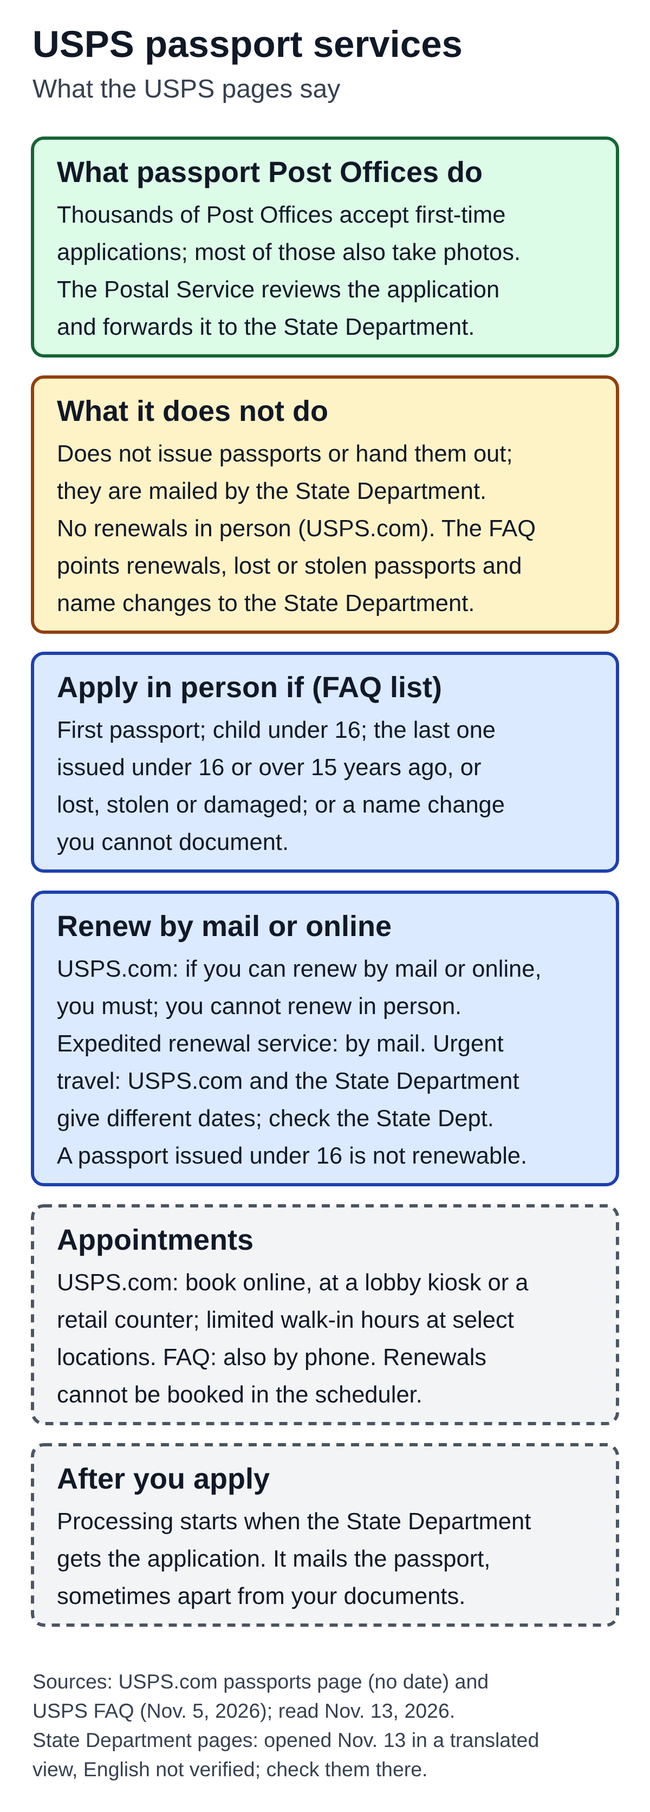
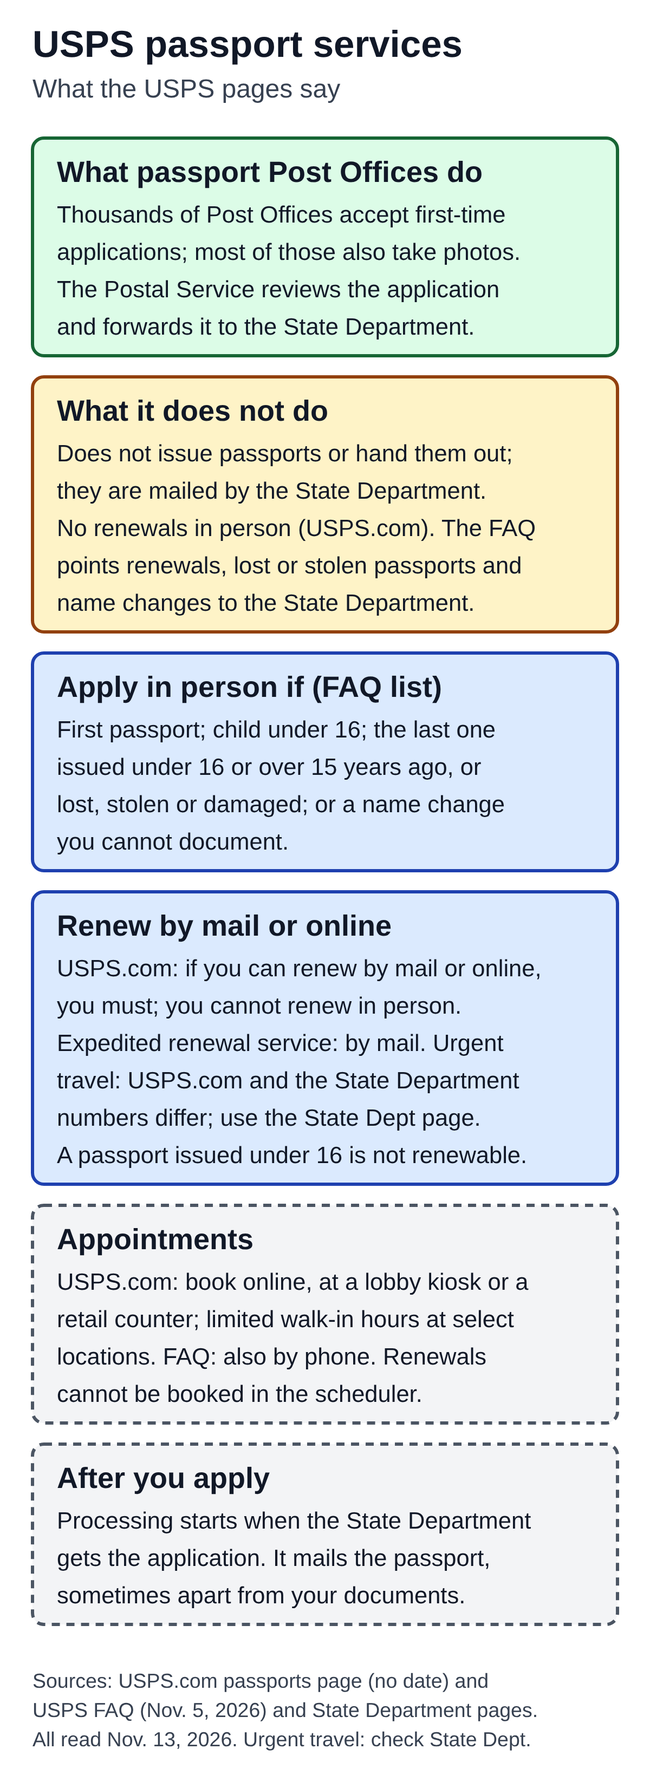
Passport post: rewrite urgent travel from English State Department text (Gate 2 FIX)
Replace the unexplained State Department numbers with the four options and what
each number measures (14 days; 2-3 weeks with 14/28-day appointment point; 6
weeks; mailing up to 2 weeks), note appointment availability, place USPS.com's
10 weeks/72 hours beside a "do not match" note, and link the State Department
page. Align scope, Sources, diagram Renew card/footer and alt; QA separates the
reviewer's search-tool check from Claude's English read. Not published.

Claude-Session: https://claude.ai/code/session_01BXtGEA3Qzg6u2ejRb8jbFU

Changed region(s): [[0.0308, 0.031, 0.9558, 0.9918], [0.8325, 0.7748, 0.8633, 0.8058], [0.7708, 0.7748, 0.8017, 0.8058]]

diff --git a/content/ready/usps-passport-services-what-the-post-office-does.md b/content/ready/usps-passport-services-what-the-post-office-does.md
@@ -8,16 +8,16 @@ status: ready
 date: 2026-11-13
 internal_link_candidates: real-id-to-fly-what-tsa-accepts (linked once in the body; decide at Gate 2)
 image: assets/optimized/usps-passport-services-what-the-post-office-does.png
-image_alt: "Diagram of what the USPS pages say about passport services. What passport Post Offices do: thousands of Post Offices accept first-time passport applications and most of those also take photos; the Postal Service reviews the application and forwards it to the State Department. What it does not do: does not issue passports or hand them out, because the State Department mails them; no renewals in person according to USPS.com; the FAQ points renewals, lost or stolen passports and name changes to the State Department. Apply in person if (FAQ list): first passport; child under 16; the last one issued under 16 or over 15 years ago, or lost, stolen or damaged; or a name change you cannot document. Renew by mail or online: USPS.com says if you can renew by mail or online, you must, and you cannot renew in person; expedited renewal service is by mail; for urgent travel USPS.com and the State Department pages give different dates, so check the State Department page; a passport issued under 16 is not renewable. Appointments: USPS.com says book online, at a lobby kiosk or a retail counter, with limited walk-in hours at select locations; the FAQ adds booking by phone; renewals cannot be booked in the scheduler. After you apply: processing starts when the State Department gets the application; it mails the passport, sometimes apart from your documents. Sources: USPS.com passports page (no date) and USPS FAQ (Nov. 5, 2026), read Nov. 13, 2026; State Department pages opened Nov. 13 in a translated view with the English wording not verified, so check them there."
+image_alt: "Diagram of what the USPS pages say about passport services. What passport Post Offices do: thousands of Post Offices accept first-time passport applications and most of those also take photos; the Postal Service reviews the application and forwards it to the State Department. What it does not do: does not issue passports or hand them out, because the State Department mails them; no renewals in person according to USPS.com; the FAQ points renewals, lost or stolen passports and name changes to the State Department. Apply in person if (FAQ list): first passport; child under 16; the last one issued under 16 or over 15 years ago, or lost, stolen or damaged; or a name change you cannot document. Renew by mail or online: USPS.com says if you can renew by mail or online, you must, and you cannot renew in person; expedited renewal service is by mail; for urgent travel the USPS.com and State Department numbers differ, so use the State Department page; a passport issued under 16 is not renewable. Appointments: USPS.com says book online, at a lobby kiosk or a retail counter, with limited walk-in hours at select locations; the FAQ adds booking by phone; renewals cannot be booked in the scheduler. After you apply: processing starts when the State Department gets the application; it mails the passport, sometimes apart from your documents. Sources: USPS.com passports page (no date), USPS FAQ (Nov. 5, 2026) and State Department pages, all read Nov. 13, 2026; for urgent travel, check the State Department page."
 ---
 
 # USPS Passport Services: What the Post Office Does and Does Not Handle
 
 **USPS says thousands of Post Offices accept first-time passport applications and most of those can also take passport photos, but "The Postal Service does NOT issue or create passports," and USPS.com says that if you are eligible to renew by mail or online, you "cannot renew in person."** The passport itself comes from the U.S. Department of State.
 
-This article covers two USPS pages: the USPS.com page "Passports" (the page titled "Passport Appointments, Renewals, & Photo Services"; no update date shown) and the USPS FAQ "U.S. Passports - The Basics" (Article 000007488, dated November 5, 2026). The wording is as of November 13, 2026. The passport rules belong to the State Department. On Nov. 13, 2026 its pages on [applying in person as an adult](https://travel.state.gov/en/passports/apply/adults.html), [renewing by mail](https://travel.state.gov/en/passports/renew-replace/mail.html) and [getting a passport faster](https://travel.state.gov/en/passports/apply/get-fast.html) were opened in a web browser, but the browser showed their text in an automatic translation and the English wording was not checked. For that reason everything below is what USPS says, not what the State Department says; this article does not quote the State Department pages or state what their sentences mean, apart from the numbers noted in the urgent travel section, and it sends you to them for the current rules and exceptions. The pages list fees; this article gives no prices. It does not cover expedited processing in detail, passport cards beyond one line, lost or stolen passports, international travel rules, or processing times.
+This article covers two USPS pages: the USPS.com page "Passports" (the page titled "Passport Appointments, Renewals, & Photo Services"; no update date shown) and the USPS FAQ "U.S. Passports - The Basics" (Article 000007488, dated November 5, 2026). The wording is as of November 13, 2026. The passport rules belong to the State Department. On Nov. 13, 2026 its pages on [applying in person as an adult](https://travel.state.gov/en/passports/apply/adults.html), [renewing by mail](https://travel.state.gov/en/passports/renew-replace/mail.html) and [getting a passport faster](https://travel.state.gov/en/passports/apply/get-fast.html) were read in English. They are used here for the urgent travel section, for the in-person list and for the under-16 renewal rule; everything else below is what USPS says, not what the State Department says, and this article sends you to the State Department pages for the current rules and exceptions. The pages list fees; this article gives no prices. It does not cover expedited processing in detail, passport cards beyond one line, lost or stolen passports, international travel rules, or processing times.
 
-![Diagram of what the USPS pages say about passport services. What passport Post Offices do: thousands of Post Offices accept first-time passport applications and most of those also take photos; the Postal Service reviews the application and forwards it to the State Department. What it does not do: does not issue passports or hand them out, because the State Department mails them; no renewals in person according to USPS.com; the FAQ points renewals, lost or stolen passports and name changes to the State Department. Apply in person if (FAQ list): first passport; child under 16; the last one issued under 16 or over 15 years ago, or lost, stolen or damaged; or a name change you cannot document. Renew by mail or online: USPS.com says if you can renew by mail or online, you must, and you cannot renew in person; expedited renewal service is by mail; for urgent travel USPS.com and the State Department pages give different dates, so check the State Department page; a passport issued under 16 is not renewable. Appointments: USPS.com says book online, at a lobby kiosk or a retail counter, with limited walk-in hours at select locations; the FAQ adds booking by phone; renewals cannot be booked in the scheduler. After you apply: processing starts when the State Department gets the application; it mails the passport, sometimes apart from your documents. Sources: USPS.com passports page (no date) and USPS FAQ (Nov. 5, 2026), read Nov. 13, 2026; State Department pages opened Nov. 13 in a translated view with the English wording not verified, so check them there.](assets/optimized/usps-passport-services-what-the-post-office-does.png)
+![Diagram of what the USPS pages say about passport services. What passport Post Offices do: thousands of Post Offices accept first-time passport applications and most of those also take photos; the Postal Service reviews the application and forwards it to the State Department. What it does not do: does not issue passports or hand them out, because the State Department mails them; no renewals in person according to USPS.com; the FAQ points renewals, lost or stolen passports and name changes to the State Department. Apply in person if (FAQ list): first passport; child under 16; the last one issued under 16 or over 15 years ago, or lost, stolen or damaged; or a name change you cannot document. Renew by mail or online: USPS.com says if you can renew by mail or online, you must, and you cannot renew in person; expedited renewal service is by mail; for urgent travel the USPS.com and State Department numbers differ, so use the State Department page; a passport issued under 16 is not renewable. Appointments: USPS.com says book online, at a lobby kiosk or a retail counter, with limited walk-in hours at select locations; the FAQ adds booking by phone; renewals cannot be booked in the scheduler. After you apply: processing starts when the State Department gets the application; it mails the passport, sometimes apart from your documents. Sources: USPS.com passports page (no date), USPS FAQ (Nov. 5, 2026) and State Department pages, all read Nov. 13, 2026; for urgent travel, check the State Department page.](assets/optimized/usps-passport-services-what-the-post-office-does.png)
 
 ## What the Post Office does, and what it does not
 
@@ -29,7 +29,7 @@ USPS.com opens with a shorter version: "Thousands of Post Offices™ accept firs
 
 ## Who applies in person
 
-The FAQ lists when you must apply in person using Form DS-11. It is enough if at least one of these is true: you are applying for your first U.S. passport; you are under age 16; your previous passport was issued when you were under 16; your previous passport was lost, stolen or damaged; your previous passport was issued more than 15 years ago; or your name has changed since the passport was issued and you cannot legally document the name change. It adds that if none of those apply, "you may be eligible to Renew by Mail using Form DS-82." The State Department's page on [applying in person as an adult](https://travel.state.gov/en/passports/apply/adults.html) is the place to check the full eligibility rules and exceptions; this article did not verify its English wording.
+The FAQ lists when you must apply in person using Form DS-11. It is enough if at least one of these is true: you are applying for your first U.S. passport; you are under age 16; your previous passport was issued when you were under 16; your previous passport was lost, stolen or damaged; your previous passport was issued more than 15 years ago; or your name has changed since the passport was issued and you cannot legally document the name change. It adds that if none of those apply, "you may be eligible to Renew by Mail using Form DS-82." The State Department's page on [applying in person as an adult](https://travel.state.gov/en/passports/apply/adults.html) is the place to check the full eligibility rules and exceptions. Its list covers first-time adult applicants age 18 and older and adults whose passport was lost, stolen or damaged, issued over 15 years ago, or issued when they were under age 16; it does not list a name change, which the FAQ list includes. Its renew-by-mail page says you cannot renew a passport for a child under age 16.
 
 For minors, the FAQ says a child under 16 must apply in person with both parents or guardians, who must show their relationship to the child, present acceptable identification and give consent. A 16- or 17-year-old must appear in person and may need a parent or guardian to show photo ID and establish parental consent. USPS.com says "Passports for children under 16 have special requirements." Separately, in its renewal text, it says a minor's passport "cannot be 'renewed'" and that each time it expires you submit a new first-time application in person. That sentence does not give an age. The page's renew-by-mail conditions require a passport issued at age 16 or older, and the FAQ's in-person list includes a previous passport issued under 16, so this article reads the sentence as covering passports issued to children under 16 and does not extend it further.
 
@@ -45,9 +45,18 @@ For a mailed renewal, USPS.com says the State Department recommends a USPS deliv
 
 ## Expedited service and urgent travel
 
-USPS.com says that if you need expedited service for a renewal, you must renew by mail. For a life-or-death emergency or urgent travel it does not point to a Post Office; it points to the State Department. For a life-or-death emergency it says to visit the State Department's Life-or-Death Emergencies page, and that "The State Department processes these requests by appointment only"; it describes that case as needing to travel "within 72 hours (3 business days)" for an immediate family member who is dead, dying, or has a life-threatening illness or injury. For urgent travel, its heading is "Urgent Travel in Less than 10 Weeks": it says that if you are traveling in less than 10 weeks you must call the State Department Passport Agency to schedule an appointment, that the appointment date must be "within 72 hours (3 business days)" of travel, and that you must provide proof of travel. So on USPS.com, "10 weeks" is the time until travel that leads to the phone call, and "72 hours (3 business days)" is how close to the travel date the appointment must fall.
+USPS.com says that if you need expedited service for a renewal, you must renew by mail. For a life-or-death emergency or urgent travel it does not point to a Post Office; it points to the State Department, to its Life-or-Death Emergencies page and to a phone call to the State Department Passport Agency for an appointment.
 
-The State Department's pages show different numbers. In the translated view on Nov. 13, 2026, its page on getting a passport faster (last updated Sep. 30, 2026 as displayed) showed 14 days for a life-or-death emergency, 2 to 3 weeks for urgent travel, and 6 weeks for expedited service, and its renew-by-mail page (last updated Oct. 1, 2026 as displayed) showed 3 weeks and 14 days in a line about appointments. This article did not confirm in the English text what each of those numbers refers to, for example whether a number is the time until travel or the time before travel by which an appointment must fall. It also does not say which source applies to you or whether USPS.com is out of date. For urgent travel, use the State Department's own page on [getting a passport faster](https://travel.state.gov/en/passports/apply/get-fast.html) and check it directly instead of relying on either set of numbers.
+The State Department's page on [getting a passport faster](https://travel.state.gov/en/passports/apply/get-fast.html) (last updated Sep. 30, 2026 as displayed; read in English on Nov. 13, 2026) lists four options. Its numbers mean different things, so they are listed one by one:
+
+- **Life-or-death, travel in less than 14 days.** You may qualify for an emergency appointment if you need to travel abroad in the next 14 days because an immediate family member outside the United States has died, is dying or in hospice care, or has a life-threatening illness or injury.
+- **Urgent, travel in less than 2 to 3 weeks.** You make an appointment at a passport agency or center. The page says to do it when you are within 14 calendar days of your international travel date, or 28 days if you need a foreign visa. So 2 to 3 weeks is how soon you travel, and 14 or 28 days is how close to the travel date you book.
+- **Expedited, travel in less than 6 weeks from the date you submit.** Processing takes 2 to 3 weeks and does not include mailing, which may add 2 weeks. It is done at an acceptance facility or, for a renewal, by mail, for an extra fee.
+- **Routine, travel in 6 weeks or more.** Processing takes 4 to 6 weeks, plus mailing.
+
+The same page says you must make an appointment for urgent and emergency service and that appointment slots may not be available right away. It also says mail can add up to 2 weeks to the total time, and that you can pay for faster shipping. Its renew-by-mail page (last updated Oct. 1, 2026 as displayed) words the urgent cutoff as travel in less than 3 weeks, with an appointment within 14 calendar days of the travel date.
+
+USPS.com's numbers are different. For a life-or-death emergency it says "within 72 hours (3 business days)" of travel, and its urgent travel heading is "Urgent Travel in Less than 10 Weeks", with an appointment date "within 72 hours (3 business days)" of travel. These do not match the State Department's 14 days, 2 to 3 weeks and 14 or 28 days above, so do not read them as the same booking rule. This article does not say why they differ or whether the USPS.com page is out of date. For urgent or emergency travel, check the State Department's page on [getting a passport faster](https://travel.state.gov/en/passports/apply/get-fast.html) before you book.
 
 ## Appointments and walk-ins
 
@@ -71,12 +80,12 @@ To follow an application, USPS.com points to the State Department's Online Passp
 
 ## What the pages do not say
 
-Neither page says how long a passport takes; both point to the State Department. USPS.com does not say which locations offer walk-in hours. The FAQ does not repeat the renewal rules that USPS.com gives, and USPS.com has no update date. The State Department pages were opened only in a translated view, so whether the renewal rules, ages and photo requirements above match their English text is not checked here.
+Neither page says how long a passport takes; both point to the State Department. USPS.com does not say which locations offer walk-in hours. The FAQ does not repeat the renewal rules that USPS.com gives, and USPS.com has no update date. This article compared the State Department pages only on the points named above (the in-person list, the under-16 renewal rule and the urgent travel timing); the photo requirements, payments and other rules were not compared.
 
 ## Sources
 
 - USPS.com, "Passports" (page title "Passport Appointments, Renewals, & Photo Services"; no update date): https://www.usps.com/international/passports.htm
 - USPS FAQ, "U.S. Passports - The Basics" (Article 000007488, November 5, 2026): https://faq.usps.com/s/article/U-S-Passports-The-Basics
-- State Department, "Apply in person as an adult" (last updated May 4, 2026 as displayed; opened Nov. 13, 2026 in a translated view, English wording not verified): https://travel.state.gov/en/passports/apply/adults.html
-- State Department, "Renew by mail" (last updated Oct. 1, 2026 as displayed; opened Nov. 13, 2026 in a translated view, English wording not verified): https://travel.state.gov/en/passports/renew-replace/mail.html
-- State Department, page on getting a passport faster (last updated Sep. 30, 2026 as displayed; opened Nov. 13, 2026 in a translated view, English wording not verified): https://travel.state.gov/en/passports/apply/get-fast.html
+- State Department, "Apply in person as an adult" (last updated May 4, 2026 as displayed; read in English Nov. 13, 2026): https://travel.state.gov/en/passports/apply/adults.html
+- State Department, "Renew by mail" (last updated Oct. 1, 2026 as displayed; read in English Nov. 13, 2026): https://travel.state.gov/en/passports/renew-replace/mail.html
+- State Department, page on getting a passport faster (last updated Sep. 30, 2026 as displayed; read in English Nov. 13, 2026): https://travel.state.gov/en/passports/apply/get-fast.html

diff --git a/editorial/qa/usps-passport-services-what-the-post-office-does.md b/editorial/qa/usps-passport-services-what-the-post-office-does.md
@@ -2,11 +2,11 @@
 
 Article: `content/drafts/usps-passport-services-what-the-post-office-does.md` (draft, 2026-11-13; about 1,470 body words without the alt text; one H1, eight H2 sections; no table).
 Brief: `research/briefs/usps-passport-services-what-the-post-office-does.md`. Sources: `research/sources/usps-passport-services-what-the-post-office-does.md` (P1 USPS.com "Passports", no update date; P2 USPS FAQ 000007488, Nov 5, 2026).
-Stage: **ready, held (not published)**: Gate 1 done 2026-11-13; Gate 2 PASS on `17a6018` after two FIX rounds; revised 2026-11-13 after the State Department pages were opened (translated view, English not verified); changed parts await a new Gate 2. **Rule-type post: re-read both pages (and try the State Department pages again) before any publish or republish.**
+Stage: **ready, held (not published)**: Gate 1 done 2026-11-13; Gate 2 PASS on `17a6018` after two FIX rounds; revised twice on 2026-11-13 (second revision after Gate 2 FIX on `ad63d00`, using the State Department pages read in English); changed parts await a new Gate 2. **Rule-type post: re-read both pages (and try the State Department pages again) before any publish or republish.**
 
 ## Scope
 
-What two USPS pages say about passport services: the Post Office's role, who applies in person, minors, renewing as USPS.com describes it, appointments and walk-in hours, photos and documents, the two payments without amounts, what happens after applying. **The State Department pages were opened on 2026-11-13 only in a browser translation; their English wording was not verified** (see the revision section below); the article attributes every rule to USPS and does not quote or interpret the State Department sentences. No prices, expedited detail, processing times, lost or stolen passports or international travel rules.
+What two USPS pages say about passport services: the Post Office's role, who applies in person, minors, renewing as USPS.com describes it, appointments and walk-in hours, photos and documents, the two payments without amounts, what happens after applying. The State Department pages were read in English on 2026-11-13 (see the second revision section below) and are used only for the urgent travel timing, the in-person list and the under-16 renewal rule; everything else is attributed to USPS. No prices, expedited detail, processing times, lost or stolen passports or international travel rules.
 
 ## Method
 
@@ -89,3 +89,21 @@ User decision: keep the post unpublished; reflect what was checked and how; link
 **Checks.** Render check `[]`; crops viewed (Renew card six lines, footer four lines, no overflow); C2PA stripped on the device; PNG 632,562 bytes (`74cedff2…`), SVG 4,906 bytes (`a62b57da…`), hashes equal the originals. No `$` or dollar amounts. Meta description unchanged (156 characters). Phrase test on the article text: the five USPS quotes above present. State Department sentences quoted in the article: none.
 
 **Still open (stated in the article or here).** The English wording of the State Department pages is not verified; which of the two sources' dates applies, and whether USPS.com is out of date, is not resolved; search volume was never checked (Trends relative indexes only). Not published. Before any publish: re-read both USPS pages and, if possible, read the State Department pages in English (a person or an English view) and compare again.
+
+## Gate 2 FIX on `ad63d00` and second revision (2026-11-13)
+
+**Verification record, by who checked what.** (a) The reviewer (GPT) checked the State Department's English page text through a search tool; that was not a view in the user's Chrome. (b) Claude first saw the State Department pages in a Korean machine translation (the first revision, `ad63d00`, treated the English as unverified). (c) After the FIX, Claude opened the three pages again in the user's Chrome; this time they loaded in English and Claude read the English text with a page-text read (no security interstitial blocked the read; nothing was clicked or bypassed). The article's State Department statements below are therefore checked by Claude against English text for these three pages as displayed on 2026-11-13: `apply/get-fast.html` (Last Updated: September 30, 2026), `renew-replace/mail.html` (October 01, 2026), `apply/adults.html` (May 04, 2026). GPT's check and Claude's read agree on the points used.
+
+**FIX items and response.**
+1. The paragraph listing State Department numbers without their meaning was removed. Replaced by a four-item list that follows the English page: life-or-death (travel in less than 14 days; immediate family member outside the United States has died, is dying or in hospice care, or has a life-threatening illness or injury; may qualify for an emergency appointment); urgent (travel in less than 2-3 weeks; make an appointment at a passport agency or center when within 14 calendar days of the international travel date, or 28 days if a foreign visa is needed, so 2 to 3 weeks is the time to travel and 14 or 28 days is how close to travel the appointment is made); expedited (travel in less than 6 weeks from the date you submit; processing 2-3 weeks, not including mailing, which may add 2 weeks; at an acceptance facility or by mail for a renewal; an extra fee, amount not given in the article); routine (travel in 6 weeks or more; 4-6 weeks plus mailing).
+2. Reader pointer: the section ends by sending readers to the State Department's get-a-passport-faster page for urgent or emergency travel before they book. The USPS numbers are kept but placed directly beside the statement that they do not match the State Department's numbers and must not be read as the same booking rule; the article does not say why they differ or whether USPS.com is out of date (no basis in either source).
+3. Appointment availability and mailing limits are stated with the numbers: the page says you must make an appointment for urgent and emergency service, appointment slots may not be available right away, and mail can add up to 2 weeks (faster shipping can be paid for). The renew-by-mail page words the urgent cutoff as less than 3 weeks with an appointment within 14 calendar days of travel; the article notes this wording difference from "2 to 3 weeks" on the get-fast page.
+4. Alignment: the scope paragraph, in-person paragraph, "What the pages do not say", Sources (three State Department entries: read in English Nov. 13, 2026, with displayed update dates), the diagram Renew card and footer, and the alt now all say the same thing. No "translated view" or "not verified" wording remains in the article (script check).
+
+**Also added from the English read (checked).** In-person paragraph: the adult page lists first-time adult applicants age 18 and older and adults whose passport was lost, stolen or damaged, issued over 15 years ago, or issued when under age 16, and does not list a name change (the FAQ list does); the renew-by-mail page says a passport cannot be renewed for a child under age 16, which agrees with the article's reading of USPS.com's "minor's passport" sentence as under 16.
+
+**Quotes.** The article quotes only USPS wording ("within 72 hours (3 business days)", "Urgent Travel in Less than 10 Weeks", "The State Department processes these requests by appointment only" no longer used); State Department content is paraphrased, not quoted. The USPS.com quotes were found on the live page earlier today (immediate-family life-or-death wording, 72 hours twice, "Urgent Travel in Less than 10 Weeks", "you must call the State Department Passport Agency").
+
+**Diagram.** Renew card: "Expedited renewal service: by mail. Urgent travel: USPS.com and the State Department numbers differ; use the State Dept page." plus "A passport issued under 16 is not renewable." Footer: "Sources: USPS.com passports page (no date) and USPS FAQ (Nov. 5, 2026) and State Department pages. All read Nov. 13, 2026. Urgent travel: check State Dept." Render check `[]`, crops viewed, C2PA stripped on the device; PNG 624,968 bytes (`b9650d5f…`), SVG 4,807 bytes (`61f1240a…`), hashes equal the originals. Front-matter alt equals the body alt (script).
+
+**Still open.** The article does not resolve which source applies or why they differ. Search volume was never checked. Not published; before any publish re-read both USPS pages and the get-fast page and compare again.

diff --git a/docs/content-backlog.md b/docs/content-backlog.md
@@ -23,7 +23,7 @@ Updated 2026-11-13 (latest; USPS tracking status published; USPS passport servic
 | Stage | Pilot 12 (counted) | Deferred or reserve (not counted) |
 |---|---|---|
 | published | 12 (DST, TSA liquids, Forever stamp, first day of winter, power bank, Informed Delivery, Thanksgiving date, weekend holidays, Hold Mail, REAL ID, PreCheck, mail forwarding) | 18 (alcohol on a plane, published 2026-10-29; USPS Certified Mail and 2027 federal holidays list, published 2026-11-04; USPS Veterans Day, lighters on a plane and vape on a plane, published 2026-11-06; USPS PO Box, published 2026-11-09 KST; razor on a plane, USPS Package Intercept, deodorant on a plane and USPS Media Mail, published 2026-11-09; TSA shoes and laptops and USPS Package Pickup, published 2026-11-09; TSA locks, USPS holiday shipping deadlines, USPS Missing Mail search, how to address an envelope and USPS tracking status, published 2026-11-13; all post-pilot) |
-| ready | 0 | 1 (USPS passport services, Gate 2 PASS on `17a6018`; revised after the State Department read, held until the changed parts pass Gate 2) |
+| ready | 0 | 1 (USPS passport services, Gate 2 PASS on `17a6018`; revised twice after the State Department read (second time in English), held until the changed parts pass Gate 2) |
 | draft | 0 | 1 (TSA holiday food, Gate 2 PASS, held until a TSA 2026 food notice is read) |
 | brief | 0 | 1 (USPS Thanksgiving) |
 | idea | 0 | 0 (the TSA shoe policy idea, row 15, was drafted as row 29 and is now published) |
@@ -69,7 +69,7 @@ Pilot 12 plan: 12 published + 0 ready + 0 draft + 0 briefs = 12 slots, 4 per lan
 | 33 | `usps-missing-mail-search-how-it-works` | USPS Missing Mail Search: When You Can File and What You Need | `usps missing mail` | **published 2026-11-13** (post 123, media 120; Gate 1 PASS 16 of 16 claims; Gate 2 FIX on `a2f1755` applied in `fbdf9b3`, re-check PASS on `fbdf9b3`; both USPS sources and the File a Claim page re-read right before publishing, 62 of 62, 20 of 20 and 6 of 6 phrases, no change) | post-pilot (not counted) | Lane: postal service and stamps. Chosen 2026-11-13 on the user's request for two non-overlapping candidates (re-compared with envelope addressing and free boxes). Two sources: USPS FAQ 000007968 (May 19, 2026) and USPS.com "Find Missing Mail" (no date). Demand: Google Trends relative indexes only (usps missing mail about 4.5 x the vape anchor, usps lost package about 2.8 x); search volume not checked. Differences shown, not resolved: the FAQ's 14-day rows against the 7-day application minimum; claim timing (USPS.com's 60 days is limited to damaged or missing contents of insured mail; the FAQ says "meeting the appropriate timeframe"); the handgun note. No prices. Links: Informed Delivery, Package Intercept, Certified Mail posts. Re-read both pages at approval and right before publishing. |
 | 34 | `how-to-address-an-envelope-usps` | How to Address an Envelope: What USPS Says About Format and Placement | `how to address an envelope` | **published 2026-11-13** (post 124, media 121 and 122; Gate 1 PASS 19 of 19 claims; Gate 2 FIX on `a2f1755` applied in `fbdf9b3`, re-check PASS on `fbdf9b3`; five USPS sources re-read right before publishing, 21 of 21, 18 of 18, 5 of 5, 14 of 14 and 3 of 3 phrases, no change) | post-pilot (not counted) | Lane: postal service and stamps. Chosen 2026-11-13 with row 33. Five sources, none with an update date: USPS FAQ 000008202, USPS.com letters page, address popup, video transcript "How to Address a Package", package page step 4. Demand: Google Trends relative indexes only (how to address an envelope about 6.2 x the vape anchor, how to address a package about 3.9 x); search volume not checked. Differences shown, not resolved: center against bottom center; where the apartment number goes; abbreviations against writing words out; "always" and "a requirement" against "required on certain types of mail". Mailer rules left out; no prices (the letters page lists some, not used). Link: Forever stamp post. Re-read the five pages at approval and right before publishing. |
 | 35 | `usps-tracking-status-what-it-means` | USPS Tracking Status: What Each One Means and What USPS Says to Do | `usps tracking status` | **published 2026-11-13** (post 128, media 127; Gate 1 PASS 20 of 20 claims; Gate 2 PASS on `17a6018` after two FIX rounds, the reviewer compared the FAQ through another official USPS address; both FAQs re-read right before publishing, S1 73 of 73 and S2 22 of 22 phrases, no change) | post-pilot (not counted) | Lane: postal service and stamps. Chosen 2026-11-13 on the user's request ("including USPS tracking status help"). Two sources: USPS FAQ 000006077 (Sep 29, 2026) and USPS FAQ 000007991 (Sep 17, 2026). Demand: Google Trends relative indexes only (about 1.7 x the vape anchor); search volume not checked. Differences shown, not resolved: 1 full postal business day against 24 hours; automatic reattempt against no automatic second attempt; "delivered by a carrier today" against the non-guarantee lines. No prices. Links: Informed Delivery, Hold Mail, Missing Mail, Certified Mail, address an envelope, mail forwarding. Re-read both FAQs at approval and right before publishing. |
-| 36 | `usps-passport-services-what-the-post-office-does` | USPS Passport Services: What the Post Office Does and Does Not Handle | `usps passport` | **ready** (2026-11-13; brief, source notes, draft, diagram and Gate 1 done: 19 of 19 claims, P1 45 of 45 and P2 47 of 47 phrases; Gate 2 PASS on `17a6018`; **held, not published**: the State Department pages were read directly on 2026-11-13 and their urgent-travel and expedite timing differs from USPS.com's; revised 2026-11-13 per the user's decision and waiting for Gate 2 of the changed parts) | post-pilot (not counted) | Lane: postal service and stamps. Chosen 2026-11-13 with row 35. Two sources: USPS.com "Passports" (no update date) and USPS FAQ 000007488 (Nov 5, 2026). **State Department pages (travel.state.gov) opened 2026-11-13 in the user's Chrome (translated view, English wording not verified)**; the article attributes every rule to USPS, shows the different urgent-travel numbers without resolving them, links the State Department page for urgent travel, and does not quote or interpret State Department sentences. Demand: Google Trends relative indexes only (highest reading of the survey; about 13 x the tracking-status phrase); search volume not checked. Differences shown, not resolved: 16 or under against under age 16; renewal detail against the FAQ pointer; appointments against walk-in hours; USPS payment methods. No dollar amounts. Link: REAL ID post. Re-read both USPS pages right before publishing and, if possible, read the State Department pages in English. |
+| 36 | `usps-passport-services-what-the-post-office-does` | USPS Passport Services: What the Post Office Does and Does Not Handle | `usps passport` | **ready** (2026-11-13; brief, source notes, draft, diagram and Gate 1 done: 19 of 19 claims, P1 45 of 45 and P2 47 of 47 phrases; Gate 2 PASS on `17a6018`; **held, not published**: the State Department pages were read directly on 2026-11-13 and their urgent-travel and expedite timing differs from USPS.com's; revised 2026-11-13 per the user's decision and waiting for Gate 2 of the changed parts) | post-pilot (not counted) | Lane: postal service and stamps. Chosen 2026-11-13 with row 35. Two sources: USPS.com "Passports" (no update date) and USPS FAQ 000007488 (Nov 5, 2026). **State Department pages (travel.state.gov) read in English 2026-11-13 in the user's Chrome** (get-fast Sep 30, renew-by-mail Oct 1, adults May 4, 2026): the urgent-travel section lists the State Department options with what each number means, shows USPS.com's different numbers beside a "do not read as the same rule" note, links the get-fast page for the current rule, and paraphrases (never quotes) the State Department. Demand: Google Trends relative indexes only (highest reading of the survey; about 13 x the tracking-status phrase); search volume not checked. Differences shown, not resolved: 16 or under against under age 16; renewal detail against the FAQ pointer; appointments against walk-in hours; USPS payment methods. No dollar amounts. Link: REAL ID post. Re-read both USPS pages and the State Department get-fast page right before publishing. |
 
 ## Rejected
 

diff --git a/docs/decision-log.md b/docs/decision-log.md
@@ -1489,3 +1489,7 @@ Passport: per the user's condition the State Department pages were tried directl
 ## 2026-11-13 (KST, night) — Passport post revised after the State Department read; still held
 
 The user chose to keep the post unpublished and revise it. Changes: the scope paragraph and in-person pointer now say the State Department pages were opened on Nov. 13, 2026 in a translated view with the English wording not verified; a rewritten "Expedited service and urgent travel" section separates what USPS.com says (quoted from the live page, re-tested today) from the numbers the State Department pages showed in translation (14 days, 2 to 3 weeks, 6 weeks; 3 weeks and 14 days), says the article did not confirm what each number refers to and does not say which source applies, and links the State Department's get-a-passport-faster page for current guidance; no State Department sentence is quoted or interpreted. The Sources list gained three State Department entries; the diagram Renew card and footer and the alt were updated to match (render check `[]`, C2PA stripped, hashes verified). The QA record documents the access method (security check cleared by itself in the user's Chrome; no action taken on it). Waiting for Gate 2 of the changed parts; not published. Search volume was never checked.
+
+## 2026-11-13 (KST, night) — Passport Gate 2 FIX on `ad63d00`: urgent travel rewritten from the English State Department text
+
+The reviewer (GPT) checked the State Department's English page text with a search tool and asked that the unexplained numbers be removed, that readers be sent to the State Department's latest guidance, that USPS's 10 weeks and 72 hours be marked as different from the State Department's, and that each State Department number be tied to what it measures. This time the three pages loaded in English in the user's Chrome and Claude read the text directly. The section now lists life-or-death (travel in less than 14 days), urgent (less than 2-3 weeks; appointment within 14 calendar days of travel, or 28 days with a foreign visa), expedited (less than 6 weeks from submission; 2-3 weeks plus up to 2 weeks mailing) and routine (6 weeks or more; 4-6 weeks plus mailing), with the appointment-slot and mailing limits, then USPS.com's numbers beside the note that they do not match; no reason for the difference is claimed. Scope, in-person paragraph, Sources, diagram card and footer, and alt were aligned; "translated view" wording is gone. The QA record separates the reviewer's search-tool check from Claude's own English read. Not published; waiting for Gate 2 of the changed parts.

diff --git a/research/briefs/usps-passport-services-what-the-post-office-does.md b/research/briefs/usps-passport-services-what-the-post-office-does.md
@@ -1,6 +1,6 @@
 # Brief — usps-passport-services-what-the-post-office-does
 
-**Stage:** ready (Gate 2 PASS on `17a6018`; revised after the State Department pages were opened in a translated view; held, not published, until the changed parts pass Gate 2) (user's request of 2026-11-13 for the next candidates). **Lane:** postal service and stamps (rule-type; official-page re-check before publishing). **Pilot status:** post-pilot (not counted).
+**Stage:** ready (Gate 2 PASS on `17a6018`; revised twice on 2026-11-13 after the State Department pages were read, the second time in English after Gate 2 FIX on `ad63d00`; held, not published, until the changed parts pass Gate 2) (user's request of 2026-11-13 for the next candidates). **Lane:** postal service and stamps (rule-type; official-page re-check before publishing). **Pilot status:** post-pilot (not counted).
 **Working title:** USPS Passport Services: What the Post Office Does and Does Not Handle. **Focus keyword:** `usps passport`.
 
 ## Why this candidate (demand signal, relative only; search volume not checked)
@@ -48,3 +48,7 @@ Scope narrowed to "thousands of Post Offices ... most of those" for applications
 ## Revision after the State Department read (2026-11-13)
 
 The State Department pages opened in the user's Chrome (translated view; English wording not verified). The article now says so, attributes every rule to USPS, shows the USPS.com and State Department urgent-travel numbers as different (State Department numbers only as displayed in the translation, none quoted or interpreted), and links the State Department's get-a-passport-faster page for urgent travel. Not published. See the QA record.
+
+## Second revision (Gate 2 FIX on `ad63d00`, 2026-11-13)
+
+The State Department's get-a-passport-faster page was read in English (Last Updated Sep. 30, 2026), together with the renew-by-mail and adult pages. The urgent-travel section now follows its four options with what each number means (time until travel; how close to the travel date an appointment is made; processing time; mailing time), says appointment slots may not be available right away and mail can add up to 2 weeks, keeps USPS.com's numbers only beside the statement that they differ, and links the State Department page to check before booking. See the QA record for who verified what.

diff --git a/research/sources/usps-passport-services-what-the-post-office-does.md b/research/sources/usps-passport-services-what-the-post-office-does.md
@@ -61,4 +61,4 @@ Read in the user's Chrome through Claude in Chrome (a Cloudflare "security check
 
 ## Use in the article (2026-11-13 revision)
 
-The State Department notes above are meaning-level notes from a translated view. The article does not quote them or state what their sentences mean; it shows only the displayed numbers and update dates, says the English was not verified, and links the pages. USPS.com quotes in the article were re-tested on the live page on 2026-11-13 (72 hours / 3 business days; "Urgent Travel in Less than 10 Weeks"; "must call the State Department Passport Agency"; "The State Department processes these requests by appointment only").
+The State Department notes above first came from a translated view. On 2026-11-13, after Gate 2 FIX on `ad63d00`, the three pages were read again in English in the user's Chrome (get-fast, Last Updated September 30, 2026; renew-by-mail, October 01, 2026; adults, May 04, 2026) and the article's State Department statements follow that English text (paraphrased, not quoted). Meanings: life-or-death "travel in less than 14 days" (immediate family member outside the United States dead, dying or in hospice, or life-threatening illness or injury); urgent "travel in less than 2-3 weeks" with an appointment when within 14 calendar days of travel, or 28 days if a foreign visa is needed; expedited "travel in less than 6 weeks from the date you submit" (processing 2-3 weeks plus up to 2 weeks mailing; acceptance facility or mail renewal; extra fee); routine 6 weeks or more (4-6 weeks plus mailing); urgent and emergency need an appointment and slots may not be available right away. The renew-by-mail page words the cutoff as less than 3 weeks, appointment within 14 calendar days of travel, and says a passport cannot be renewed for a child under age 16. The adult page does not list a name change. USPS.com quotes in the article were re-tested on the live page on 2026-11-13 (72 hours / 3 business days; "Urgent Travel in Less than 10 Weeks"; "must call the State Department Passport Agency"; "The State Department processes these requests by appointment only").
